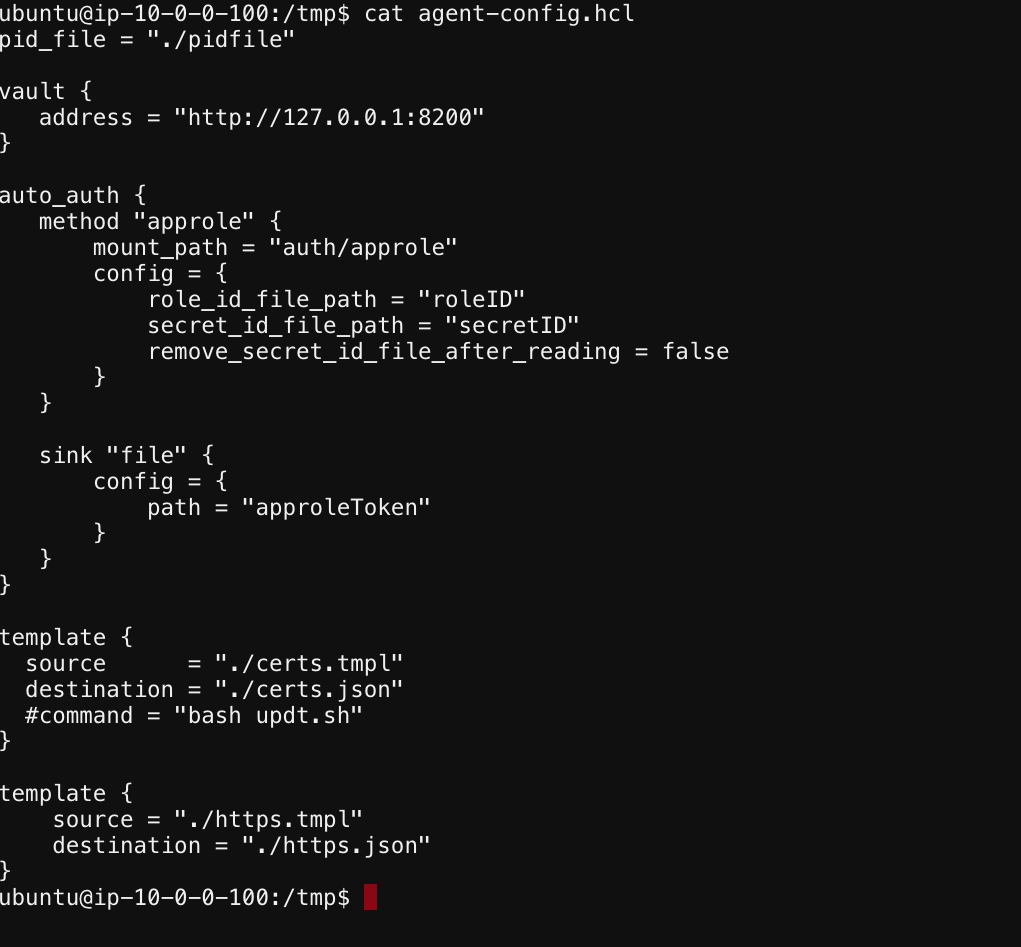
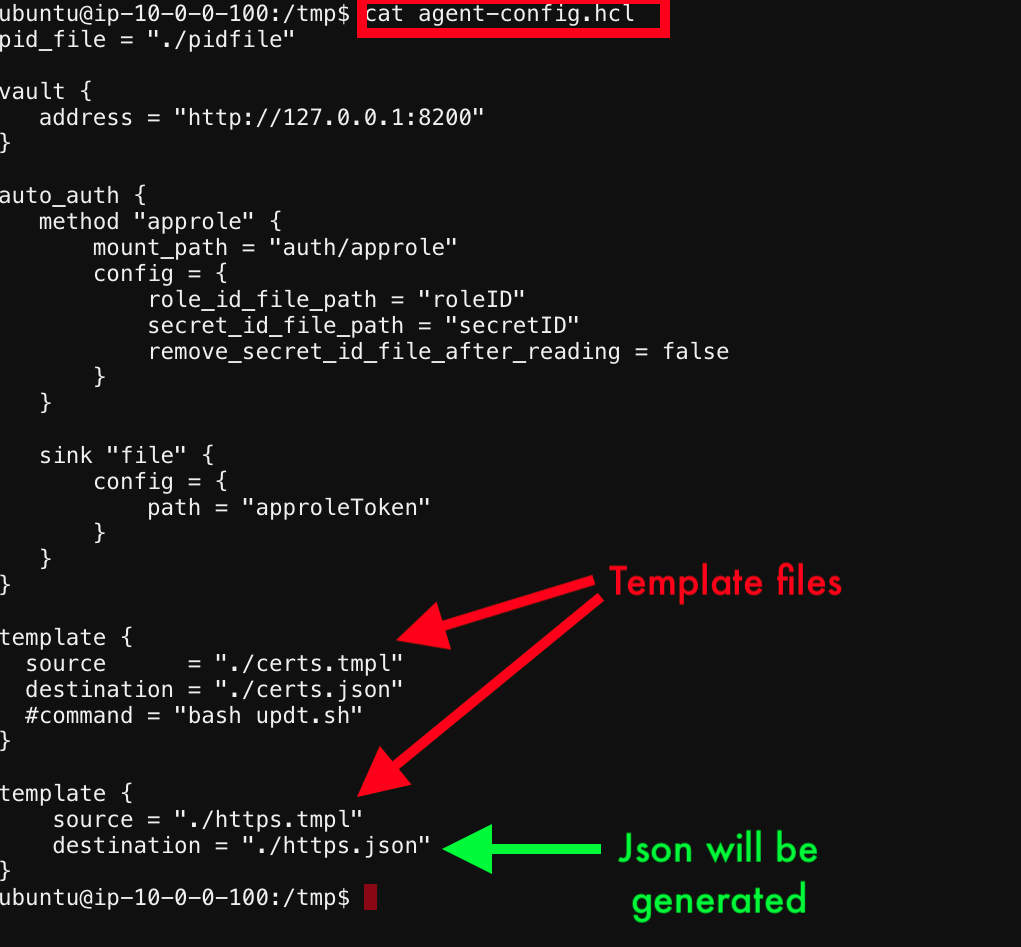
u

diff --git a/1-ex/2-ex/3-ex/4-ex/5-ex/6-ex/7-ex/README.md b/1-ex/2-ex/3-ex/4-ex/5-ex/6-ex/7-ex/README.md
@@ -5,45 +5,10 @@
 
 2. Issue the commands
  
-``` cd /tmp ```
+``` cd /tmp```
+``` cat agent-config.hcl```
 
-```cat agent-config.hcl```
- 
-```pid_file = "./pidfile"```
-
-```vault {```
-```   address = "http://127.0.0.1:8200"```
-```}```
-
-```auto_auth {```
-```   method "approle" {```
-```       mount_path = "auth/approle"```
-```       config = {```
-   ```        role_id_file_path = "roleID"```
-```           secret_id_file_path = "secretID"```
-         ```  remove_secret_id_file_after_reading = false```
-      ``` }```
-   ```}```
-
-   ```sink "file" {```
-      ``` config = {```
-   ```        path = "approleToken"```
-       }```
-```   }```
-```}```
-
-```template {```
-  ```source      = "./certs.tmpl"```
-  ```destination = "./certs.json"```
-  ```#command = "bash updt.sh"```
-```}```
-
-```template {```
- ```   source = "./https.tmpl"```
- ```   destination = "./https.json"```
-```}```
-
-ubuntu@ip-10-0-0-100:/tmp$ 
+You will see the file as shown in the picture below
 
    ![alt text](../../../../../../../images/hcl.png)
 

diff --git a/1-ex/2-ex/3-ex/4-ex/5-ex/6-ex/7-ex/8-ex/README.md b/1-ex/2-ex/3-ex/4-ex/5-ex/6-ex/7-ex/8-ex/README.md
@@ -1,4 +1,11 @@
 # Review the /tmp directory
+Below is the agent file which we will be running, this has three main stanza
+
+### vault
+This points to the vault IP address
+
+### auto_auth
+We are using auth method in Vault as ```approle``` this is primarily use for app to app authentication, it uses ```roleID``` and ```secretID```these act like username and password to authenticate to vault. Once you get authenticated vault will provide the ```appRoleToken```
 
    ![alt text](../../../../../../../../images/hcl.png)
 
